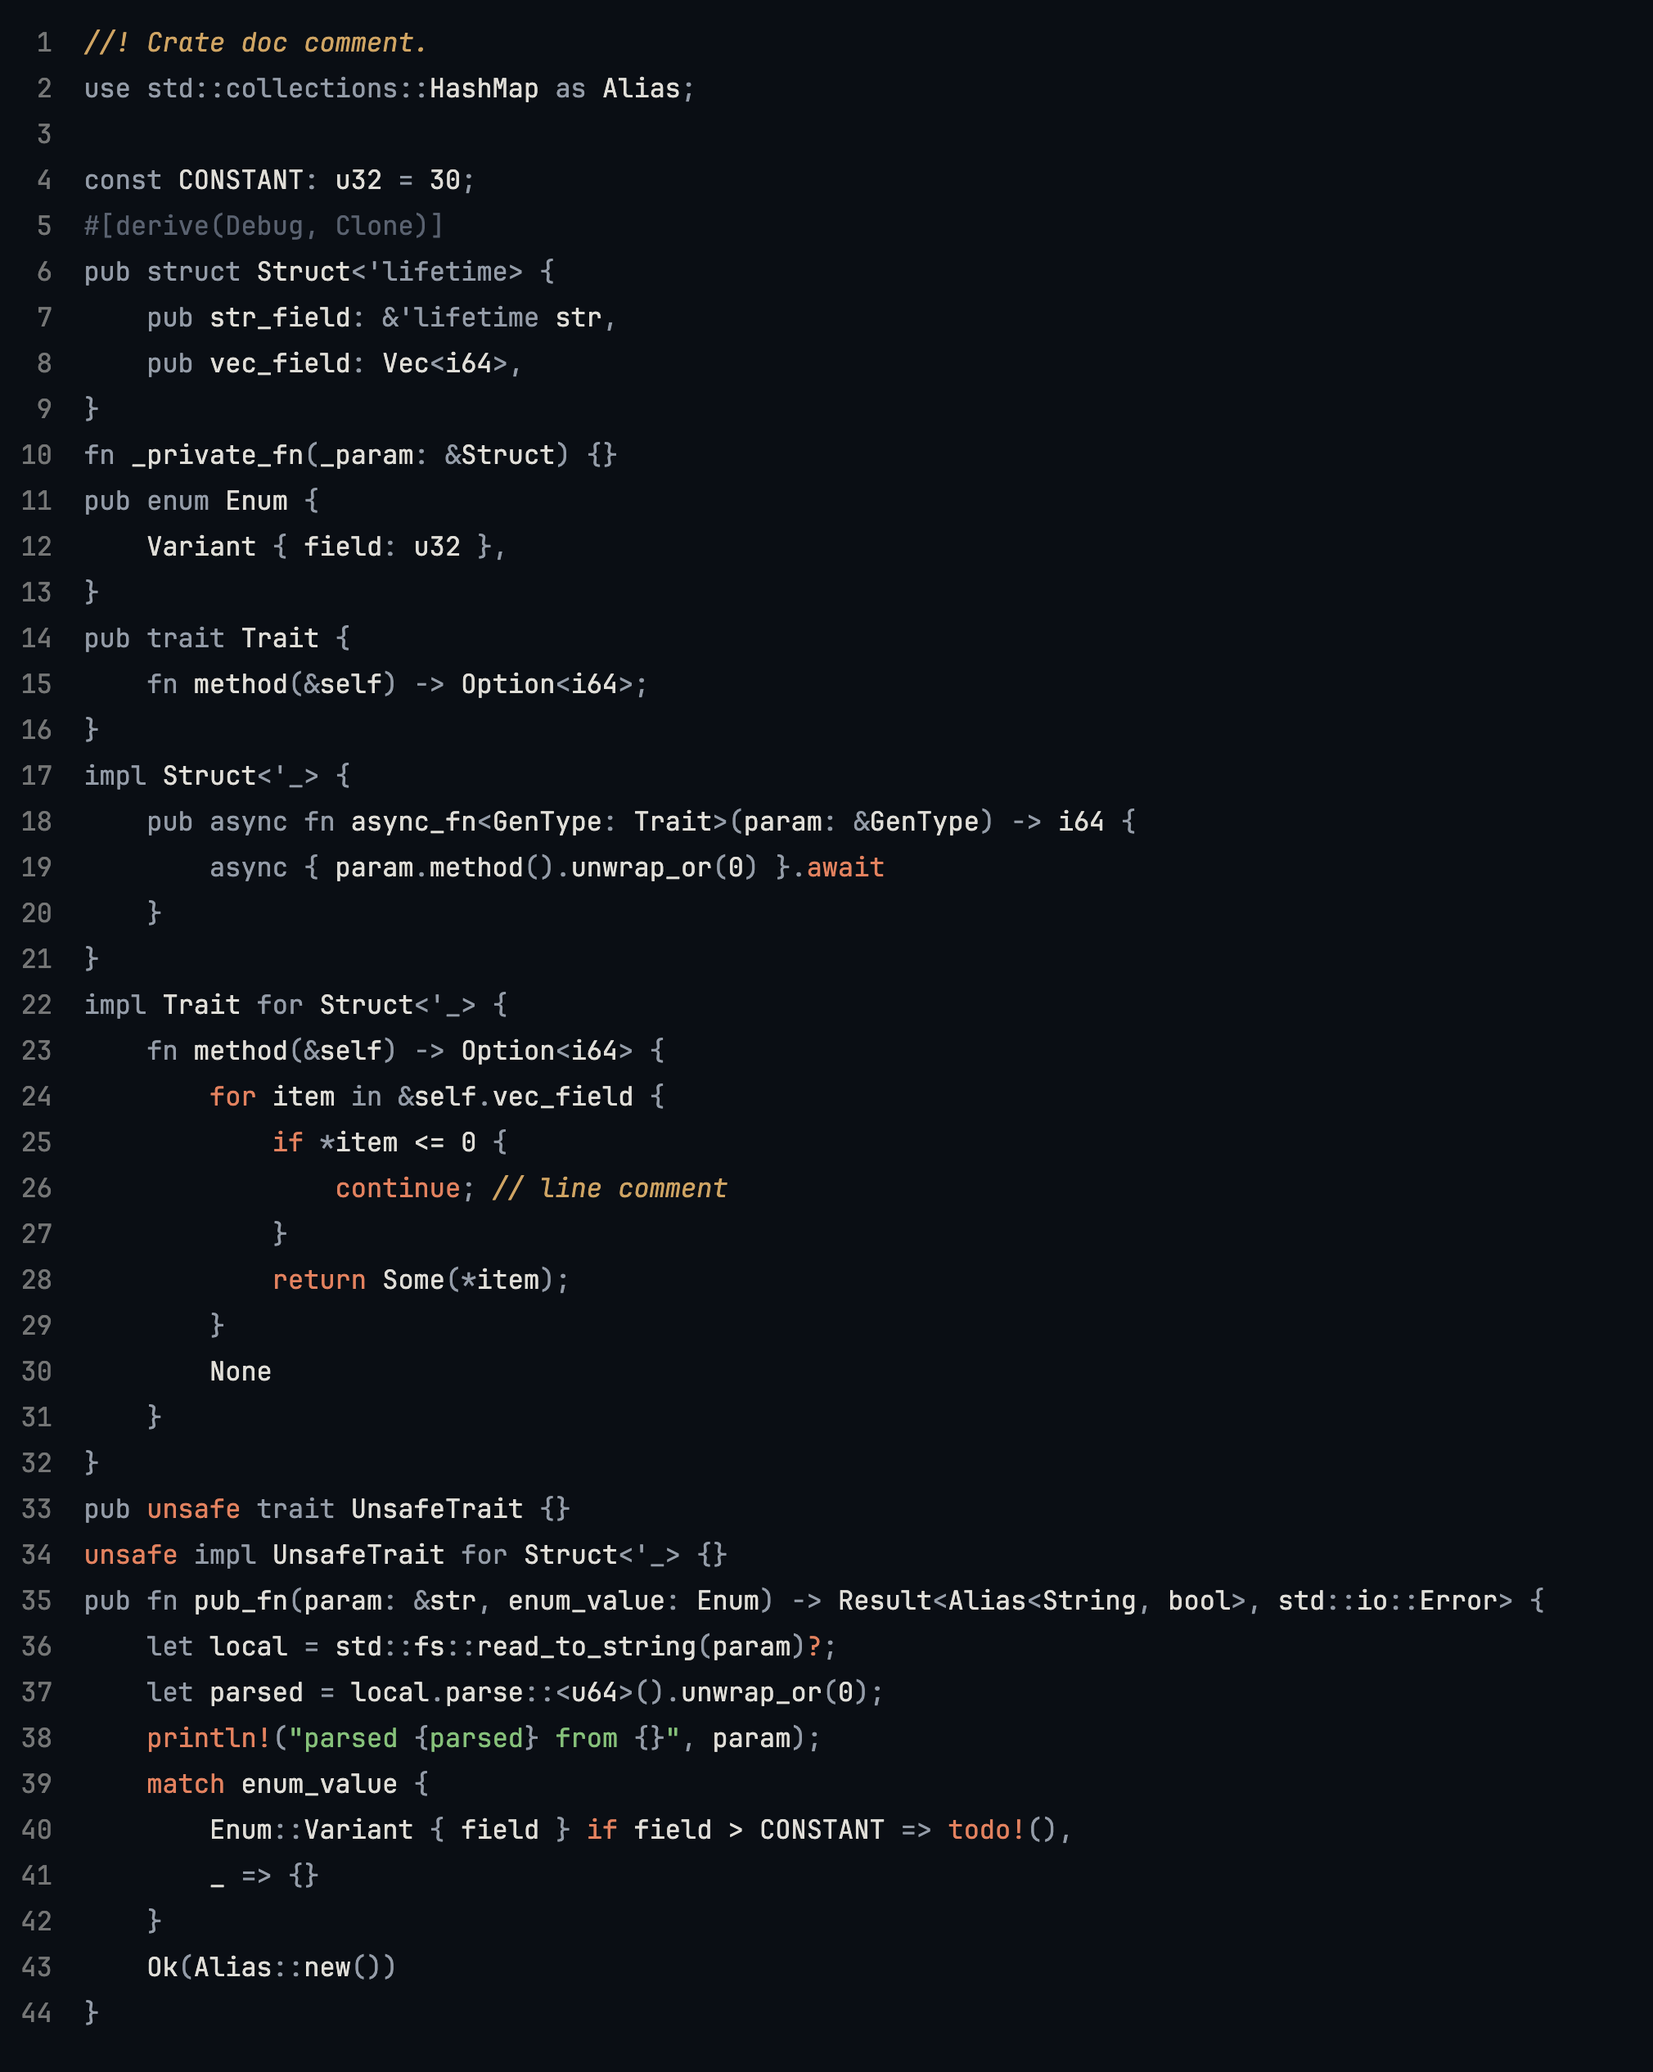
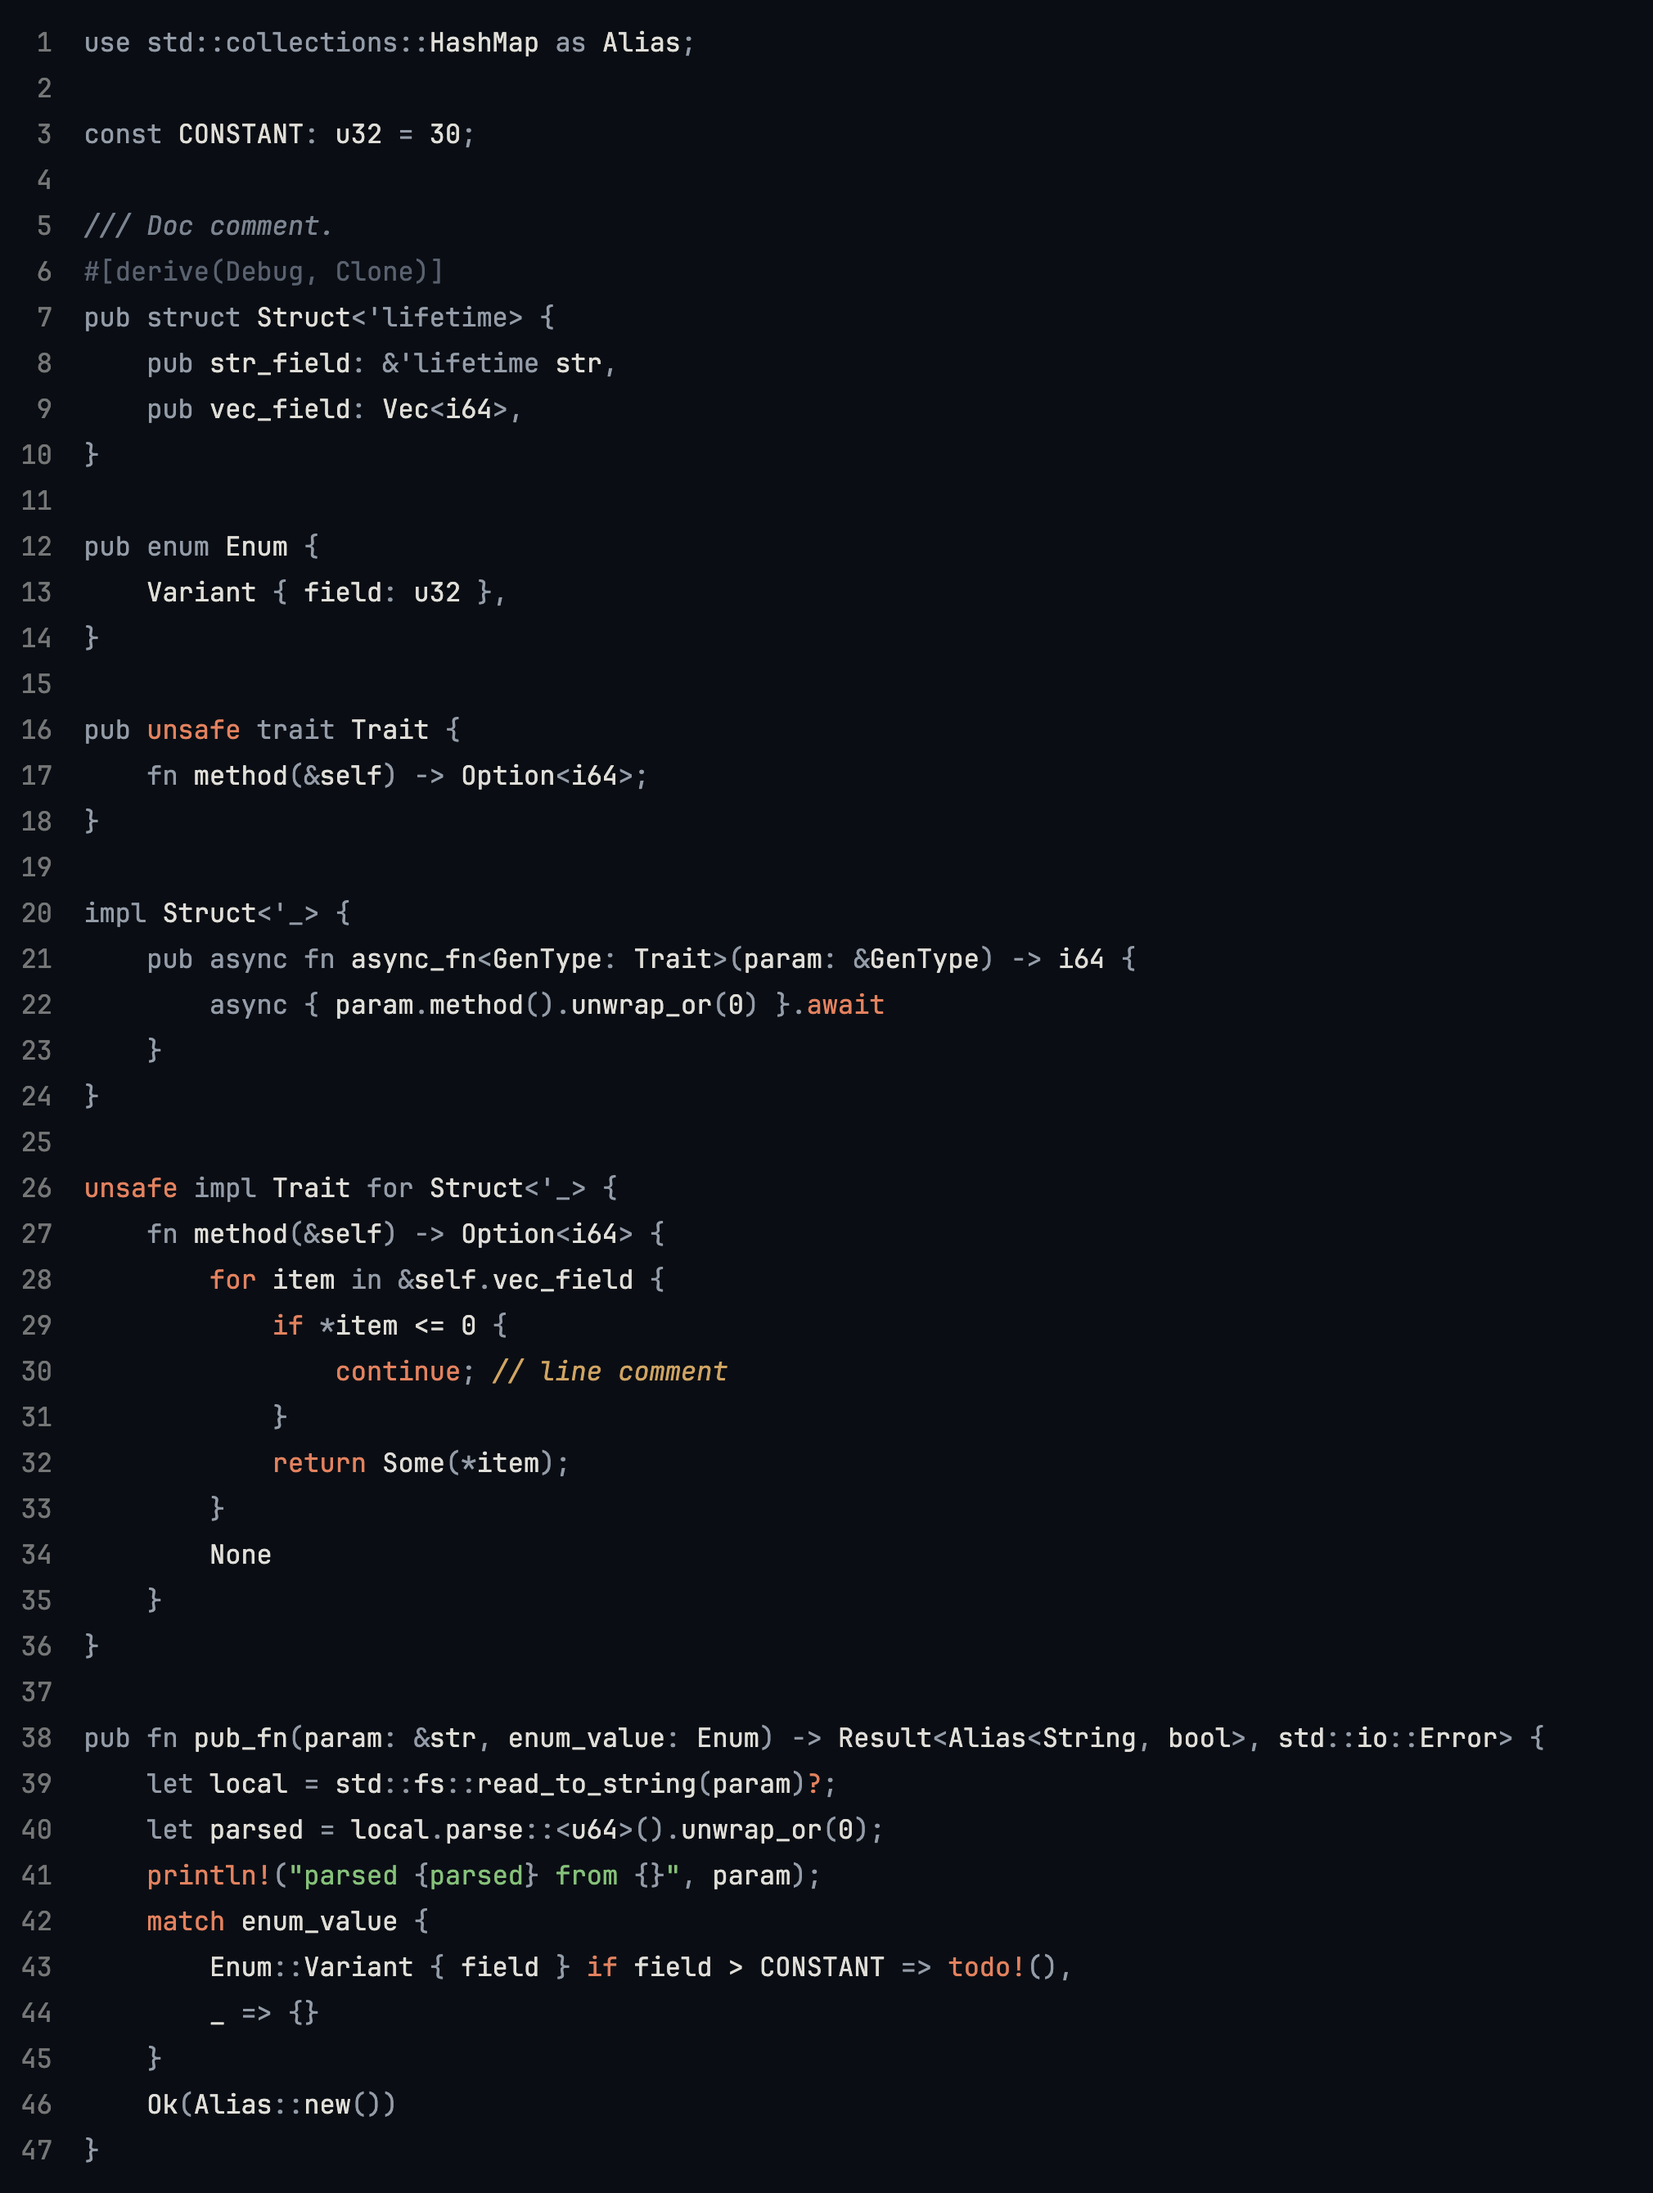
Space out and trim the sample

diff --git a/sample/src/lib.rs b/sample/src/lib.rs
@@ -1,25 +1,29 @@
-//! Crate doc comment.
 use std::collections::HashMap as Alias;
 
 const CONSTANT: u32 = 30;
+
+/// Doc comment.
 #[derive(Debug, Clone)]
 pub struct Struct<'lifetime> {
     pub str_field: &'lifetime str,
     pub vec_field: Vec<i64>,
 }
-fn _private_fn(_param: &Struct) {}
+
 pub enum Enum {
     Variant { field: u32 },
 }
-pub trait Trait {
+
+pub unsafe trait Trait {
     fn method(&self) -> Option<i64>;
 }
+
 impl Struct<'_> {
     pub async fn async_fn<GenType: Trait>(param: &GenType) -> i64 {
         async { param.method().unwrap_or(0) }.await
     }
 }
-impl Trait for Struct<'_> {
+
+unsafe impl Trait for Struct<'_> {
     fn method(&self) -> Option<i64> {
         for item in &self.vec_field {
             if *item <= 0 {
@@ -30,8 +34,7 @@ impl Trait for Struct<'_> {
         None
     }
 }
-pub unsafe trait UnsafeTrait {}
-unsafe impl UnsafeTrait for Struct<'_> {}
+
 pub fn pub_fn(param: &str, enum_value: Enum) -> Result<Alias<String, bool>, std::io::Error> {
     let local = std::fs::read_to_string(param)?;
     let parsed = local.parse::<u64>().unwrap_or(0);
